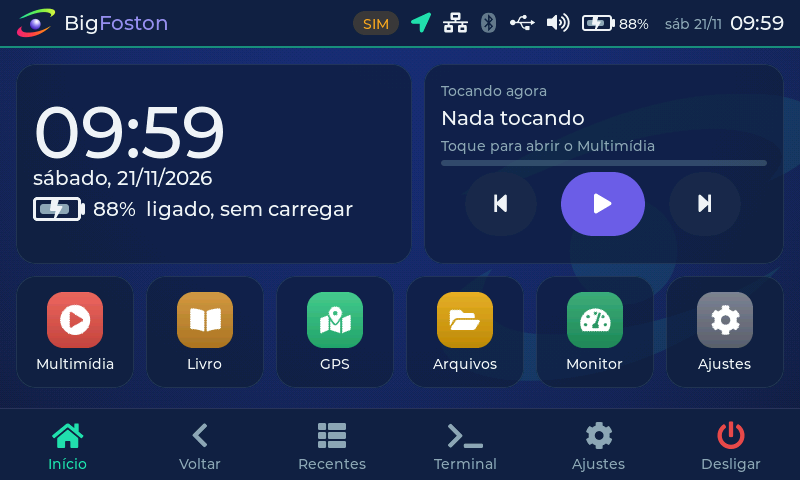
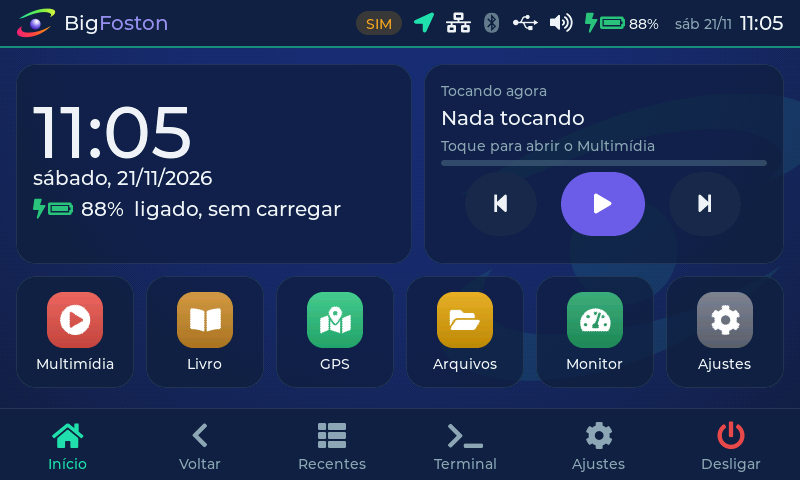
Bateria: ícone no estilo antigo, todo verde no carregador, laranja na bateria, vermelho abaixo de 10%
O ícone desenhado ficou grosso e o verde dependia do fim do algoritmo de
carga (nunca na USB do PC). Agora é o símbolo da fonte (nível em 5 passos)
com o ícone inteiro colorido: verde com raio com carregador ou cabo ligado,
laranja na bateria, vermelho abaixo de 10%. O texto do Painel continua
dizendo carregando / carga completa / ligado, sem carregar.

Changed region(s): [[0.0312, 0.2188, 0.2812, 0.3438], [0.0312, 0.4062, 0.4375, 0.4688], [0.4375, 0.0312, 1.0, 0.0625]]

diff --git a/src/ui/widgets/battery.c b/src/ui/widgets/battery.c
@@ -2,66 +2,36 @@
 #include "battery.h"
 #include "../core/theme.h"
 #include "../core/i18n.h"
+#include <string.h>
 
 /* filhos do contêiner, na ordem de criação */
-enum { CH_BODY, CH_CAP, CH_BOLT };
+enum { CH_BOLT, CH_GLYPH };
 
-typedef struct {
-    int pct;
-    bf_bat_state_t st;
-    bool dark;              /* modo em que foi pintado (o Automático troca sem reconstruir) */
-} bat_state_t;
-
-static void bat_delete(lv_event_t *e)
+static void set_text_if(lv_obj_t *l, const char *t)
 {
-    lv_free(lv_event_get_user_data(e));
+    const char *old = lv_label_get_text(l);
+    if(!old || strcmp(old, t)) lv_label_set_text(l, t);
 }
 
-lv_obj_t *battery_create(lv_obj_t *parent, int w, int h, const lv_font_t *font)
+lv_obj_t *battery_create(lv_obj_t *parent, const lv_font_t *font)
 {
-    int cap_w = w / 10 < 2 ? 2 : w / 10;
-    int border = h >= 24 ? 3 : 2;
     lv_obj_t *c = lv_obj_create(parent);
     lv_obj_remove_style_all(c);
-    lv_obj_set_size(c, w + cap_w, h);
+    lv_obj_set_size(c, LV_SIZE_CONTENT, LV_SIZE_CONTENT);
+    lv_obj_set_flex_flow(c, LV_FLEX_FLOW_ROW);
+    lv_obj_set_flex_align(c, LV_FLEX_ALIGN_START, LV_FLEX_ALIGN_CENTER, LV_FLEX_ALIGN_CENTER);
+    lv_obj_set_style_pad_column(c, 2, 0);
     lv_obj_remove_flag(c, LV_OBJ_FLAG_CLICKABLE | LV_OBJ_FLAG_SCROLLABLE);
-
-    lv_obj_t *body = lv_obj_create(c);
-    lv_obj_remove_style_all(body);
-    lv_obj_set_size(body, w, h);
-    lv_obj_set_style_border_width(body, border, 0);
-    lv_obj_set_style_radius(body, h / 5, 0);
-    lv_obj_set_style_pad_all(body, border + 1, 0);
-    lv_obj_remove_flag(body, LV_OBJ_FLAG_CLICKABLE | LV_OBJ_FLAG_SCROLLABLE);
-
-    lv_obj_t *fill = lv_obj_create(body);           /* nível: filho do corpo */
-    lv_obj_remove_style_all(fill);
-    lv_obj_set_height(fill, LV_PCT(100));
-    lv_obj_set_style_bg_opa(fill, LV_OPA_COVER, 0);
-    lv_obj_set_style_radius(fill, h / 8, 0);
-    lv_obj_remove_flag(fill, LV_OBJ_FLAG_CLICKABLE | LV_OBJ_FLAG_SCROLLABLE);
-
-    lv_obj_t *cap = lv_obj_create(c);
-    lv_obj_remove_style_all(cap);
-    lv_obj_set_size(cap, cap_w, h / 2 < 4 ? 4 : h / 2);
-    lv_obj_align(cap, LV_ALIGN_RIGHT_MID, 0, 0);
-    lv_obj_set_style_bg_opa(cap, LV_OPA_COVER, 0);
-    lv_obj_set_style_radius(cap, cap_w / 2, 0);
 
     lv_obj_t *bolt = lv_label_create(c);
     lv_label_set_text(bolt, LV_SYMBOL_CHARGE);
     lv_obj_set_style_text_font(bolt, font, 0);
-    lv_obj_align(bolt, LV_ALIGN_LEFT_MID, (w - lv_font_get_glyph_width(font, 0xF0E7, 0)) / 2, 0);
     lv_obj_add_flag(bolt, LV_OBJ_FLAG_HIDDEN);
 
-    bat_state_t *bs = lv_malloc(sizeof(*bs));
-    if(bs) {
-        bs->pct = -2;               /* força a primeira pintura */
-        bs->st = BF_BAT_UNKNOWN;
-        bs->dark = false;
-        lv_obj_set_user_data(c, bs);
-        lv_obj_add_event_cb(c, bat_delete, LV_EVENT_DELETE, bs);
-    }
+    lv_obj_t *glyph = lv_label_create(c);
+    lv_label_set_text(glyph, LV_SYMBOL_BATTERY_EMPTY);
+    lv_obj_set_style_text_font(glyph, font, 0);
+
     battery_set(c, -1, BF_BAT_UNKNOWN);
     return c;
 }
@@ -70,61 +40,29 @@ void battery_set(lv_obj_t *c, int pct, bf_bat_state_t st)
 {
     if(!c) return;
     const bf_palette_t *p = pal();
-    bat_state_t *bs = lv_obj_get_user_data(c);
-    bool dark = theme_dark_now();
-    if(pct > 100) pct = 100;
-    if(pct < -1) pct = -1;
-    /* nada mudou: não invalida a tela (a barra superior atualiza a cada segundo) */
-    if(bs && bs->pct == pct && bs->st == st && bs->dark == dark)
-        return;
-    if(bs) { bs->pct = pct; bs->st = st; bs->dark = dark; }
-
-    lv_obj_t *body = lv_obj_get_child(c, CH_BODY);
-    lv_obj_t *cap = lv_obj_get_child(c, CH_CAP);
     lv_obj_t *bolt = lv_obj_get_child(c, CH_BOLT);
-    lv_obj_t *fill = lv_obj_get_child(body, 0);
+    lv_obj_t *glyph = lv_obj_get_child(c, CH_GLYPH);
+    if(pct > 100) pct = 100;
+    bool plugged = st == BF_BAT_CHARGING || st == BF_BAT_FULL || st == BF_BAT_NOT_CHARGING;
+    if(st == BF_BAT_FULL) pct = 100;
 
-    lv_color_t outline = p->text, level = p->text, bolt_c = p->text;
-    bool show_bolt = false;
-    switch(st) {
-    case BF_BAT_CHARGING:
-        level = p->warning;
-        show_bolt = true;
-        break;
-    case BF_BAT_FULL:
-        outline = level = p->success;
-        pct = 100;                      /* o algoritmo terminou a carga */
-        show_bolt = true;
-        break;
-    case BF_BAT_NOT_CHARGING:            /* carregador ligado, carga parada: nível cinza */
-        level = p->text_dim;
-        show_bolt = true;
-        break;
-    default:
-        if(pct >= 0 && pct <= 15) outline = level = p->danger;
-        break;
+    const char *sym = LV_SYMBOL_BATTERY_EMPTY;
+    if(pct >= 0)
+        sym = pct > 80 ? LV_SYMBOL_BATTERY_FULL : pct > 55 ? LV_SYMBOL_BATTERY_3 :
+              pct > 30 ? LV_SYMBOL_BATTERY_2 : pct > 10 ? LV_SYMBOL_BATTERY_1 : LV_SYMBOL_BATTERY_EMPTY;
+    set_text_if(glyph, sym);
+
+    lv_color_t col;
+    if(plugged) col = p->success;
+    else if(pct < 0) col = p->text_dim;
+    else if(pct < 10) col = p->danger;
+    else col = lv_color_hex(theme_dark_now() ? 0xff8c1a : 0xc8600e);   /* laranja */
+    /* a barra superior chama a cada segundo: só mexe no estilo se a cor mudou */
+    if(!lv_color_eq(lv_obj_get_style_text_color(glyph, 0), col)) {
+        lv_obj_set_style_text_color(glyph, col, 0);
+        lv_obj_set_style_text_color(bolt, col, 0);
     }
-    if(pct < 0) {
-        outline = p->text_dim;
-        show_bolt = show_bolt && st != BF_BAT_UNKNOWN;
-    }
-
-    lv_obj_set_style_border_color(body, outline, 0);
-    lv_obj_set_style_bg_color(cap, outline, 0);
-    lv_obj_set_style_bg_color(fill, level, 0);
-    /* nível: pelo menos um traço visível acima de 0% */
-    lv_obj_update_layout(body);
-    int inner = lv_obj_get_content_width(body);
-    int fw = pct <= 0 ? 0 : inner * pct / 100;
-    if(pct > 0 && fw < 2) fw = 2;
-    lv_obj_set_width(fill, fw);
-    if(fw) lv_obj_remove_flag(fill, LV_OBJ_FLAG_HIDDEN);
-    else lv_obj_add_flag(fill, LV_OBJ_FLAG_HIDDEN);
-
-    /* o raio fica por cima do nível, na cor do texto (claro no modo escuro,
-     * escuro no claro): contrasta com o âmbar/verde e com o fundo */
-    lv_obj_set_style_text_color(bolt, bolt_c, 0);
-    if(show_bolt) lv_obj_remove_flag(bolt, LV_OBJ_FLAG_HIDDEN);
+    if(plugged) lv_obj_remove_flag(bolt, LV_OBJ_FLAG_HIDDEN);
     else lv_obj_add_flag(bolt, LV_OBJ_FLAG_HIDDEN);
 }
 

diff --git a/src/ui/widgets/battery.h b/src/ui/widgets/battery.h
@@ -1,20 +1,20 @@
-/* battery.h — ícone de bateria desenhado (contorno, nível, raio).
+/* battery.h — ícone de bateria (símbolo da fonte, com o nível em 5 passos).
  *
- *   descarregando        contorno e nível na cor do texto; vermelho <= 15%
- *   carregando           nível âmbar e um raio por cima
- *   carga completa       bateria verde, com o raio (carregador ligado)
- *   ligado sem carregar  nível cinza com o raio (fonte fraca, ex. USB do PC)
- *   desconhecido         só o contorno, apagado (nunca inventa nível)
+ * O ícone inteiro muda de cor:
+ *   verde     carregador ou cabo USB ligado (carregando, carga completa ou
+ *             ligado sem carregar), com um raio ao lado
+ *   laranja   usando a bateria
+ *   vermelho  usando a bateria, abaixo de 10%
+ *   apagado   desconhecido (nunca inventa nível)
  *
- * As cores vêm da paleta (verde, âmbar e vermelho são os mesmos em todos os
- * temas), então o verde de "carga completa" não se confunde com o destaque. */
+ * Verde, laranja e vermelho são os mesmos em todos os temas de cores (o
+ * laranja escurece no modo claro, para contrastar com o fundo). */
 #ifndef BF_BATTERY_H
 #define BF_BATTERY_H
 #include "lvgl.h"
 #include "../core/status.h"
 
-/* w x h é o corpo; o polo fica à direita (w/10 de largura). font: o do raio. */
-lv_obj_t *battery_create(lv_obj_t *parent, int w, int h, const lv_font_t *font);
+lv_obj_t *battery_create(lv_obj_t *parent, const lv_font_t *font);
 /* pct -1 = desconhecido */
 void battery_set(lv_obj_t *bat, int pct, bf_bat_state_t st);
 /* Rótulo curto do estado ("carregando", "carga completa"...); "" se descarregando. */

diff --git a/src/ui/core/screenshot.c b/src/ui/core/screenshot.c
@@ -137,7 +137,7 @@ int screenshot_run(const char *dir)
     sim_set_battery(64, 'c'); status_refresh(); pump(1100); shot("01d-bateria-carregando");
     sim_set_battery(100, 'f'); status_refresh(); pump(1100); shot("01e-bateria-carga-completa");
     sim_set_battery(88, 'n'); status_refresh(); pump(1100); shot("01f-bateria-ligado-sem-carregar");
-    sim_set_battery(12, 'd'); status_refresh(); pump(1100); shot("01g-bateria-fraca");
+    sim_set_battery(8, 'd'); status_refresh(); pump(1100); shot("01g-bateria-fraca");
     sim_set_battery(64, 'c'); status_refresh();
     go(SCR_POWER, 0);               shot("27b-potencia-carregando");
     sim_set_battery(-2, 0); status_refresh();      /* volta ao padrão (ou BIGFOSTON_SIM_BATTERY) */

diff --git a/src/ui/screens/scr_power.c b/src/ui/screens/scr_power.c
@@ -28,7 +28,7 @@ static void create(lv_obj_t *parent, int arg)
     lv_obj_set_flex_align(c, LV_FLEX_ALIGN_START, LV_FLEX_ALIGN_CENTER, LV_FLEX_ALIGN_CENTER);
     lv_obj_set_style_pad_column(c, BF_SP_XL, 0);
     bool known = s->battery_pct >= 0;
-    lv_obj_t *bat = battery_create(c, 84, 42, BF_FONT_L);
+    lv_obj_t *bat = battery_create(c, BF_FONT_L);
     battery_set(bat, s->battery_pct, s->battery_state);
     lv_obj_t *col = bf_plain(c);
     lv_obj_set_size(col, LV_SIZE_CONTENT, LV_SIZE_CONTENT);

diff --git a/src/ui/widgets/topbar.c b/src/ui/widgets/topbar.c
@@ -90,7 +90,7 @@ lv_obj_t *topbar_create(lv_obj_t *parent)
     lv_obj_set_flex_flow(batbox, LV_FLEX_FLOW_ROW);
     lv_obj_set_flex_align(batbox, LV_FLEX_ALIGN_START, LV_FLEX_ALIGN_CENTER, LV_FLEX_ALIGN_CENTER);
     lv_obj_set_style_pad_column(batbox, 4, 0);
-    ic_bat = battery_create(batbox, 30, 16, BF_FONT_S);
+    ic_bat = battery_create(batbox, BF_FONT_M);
     bat_pct = bf_label(batbox, "—", BF_FONT_S, p->text);
 
     lv_obj_t *clockbox = bf_plain(icons);

diff --git a/src/ui/screens/scr_home.c b/src/ui/screens/scr_home.c
@@ -340,7 +340,7 @@ static void create_panel(lv_obj_t *parent)
     lv_obj_set_flex_flow(brow, LV_FLEX_FLOW_ROW);
     lv_obj_set_flex_align(brow, LV_FLEX_ALIGN_START, LV_FLEX_ALIGN_CENTER, LV_FLEX_ALIGN_CENTER);
     lv_obj_set_style_pad_column(brow, BF_SP_S, 0);
-    bat_icon = battery_create(brow, 48, 24, BF_FONT_M);
+    bat_icon = battery_create(brow, BF_FONT_M);
     bat_lbl = bf_label(brow, "", BF_FONT_M, p->text);
 
     /* tocando agora */

diff --git a/docs/09-interface-ux-ui.md b/docs/09-interface-ux-ui.md
@@ -103,28 +103,28 @@ Cada ícone vem do provedor de status (`src/ui/core/status.h`):
 
 ### Ícone da bateria
 
-Desenhado (`src/ui/widgets/battery.c`): contorno, nível proporcional e um raio. O mesmo
-widget aparece na barra superior, no Início em modo Painel e em Ajustes > Potência. O
-estado vem de `/sys/class/power_supply/battery/status`.
+O símbolo de bateria da fonte (nível em 5 passos), com **o ícone inteiro colorido**
+(`src/ui/widgets/battery.c`), na barra superior, no Início em modo Painel e em
+Ajustes > Potência. O estado vem de `/sys/class/power_supply/battery/status`.
 
-| Estado | Aparência | Quando |
-|---|---|---|
-| descarregando | nível na cor do texto; **vermelho** em 15 % ou menos | sem carregador |
-| carregando | nível **âmbar** + raio | `Charging` |
-| carga completa | bateria **verde** + raio | `Full`: o algoritmo de carga terminou (corrente baixa em tensão constante, 2 h em CV ou 8 h no total) |
-| ligado, sem carregar | nível cinza + raio | `Not charging`: fonte fraca (USB do PC) ou falha |
-| desconhecido | só o contorno, apagado, e "—" | sem medidor |
+| Cor | Quando |
+|---|---|
+| **verde**, com um raio ao lado | carregador ou cabo USB ligado: carregando, carga completa ou ligado sem carregar |
+| **laranja** | usando a bateria |
+| **vermelho** | usando a bateria, abaixo de 10 % |
+| apagado, com "—" | sem medidor (nunca uma porcentagem inventada) |
 
-O verde, o âmbar e o vermelho são os mesmos em todos os temas de cores, então o verde
-de "carga completa" não se confunde com o destaque do tema. Durante a carga a
-porcentagem desconta os ~200 mV que o carregador soma à leitura (medido em 21/11/2026).
+O texto do Painel diz o estado: "carregando", "carga completa" (o algoritmo de carga
+terminou: corrente baixa em tensão constante, 2 h em CV ou 8 h no total) ou "ligado,
+sem carregar" (fonte fraca, como a USB do PC, ou falha). Durante a carga a porcentagem
+desconta os ~200 mV que o carregador soma à leitura (medido em 21/11/2026).
 
 | | |
 |---|---|
-| ![](images/ui/01d-bateria-carregando.png) | **Carregando** — âmbar com raio, "64% carregando". |
-| ![](images/ui/01e-bateria-carga-completa.png) | **Carga completa** — verde com raio. |
-| ![](images/ui/01f-bateria-ligado-sem-carregar.png) | **Ligado, sem carregar** — nível cinza com raio. |
-| ![](images/ui/01g-bateria-fraca.png) | **Bateria fraca** — vermelho em 15 % ou menos, sem carregador. |
+| ![](images/ui/01d-bateria-carregando.png) | **Carregando** — verde com raio, "64% carregando". |
+| ![](images/ui/01e-bateria-carga-completa.png) | **Carga completa**. |
+| ![](images/ui/01f-bateria-ligado-sem-carregar.png) | **Ligado, sem carregar** (USB do PC). |
+| ![](images/ui/01g-bateria-fraca.png) | **Bateria fraca** — vermelho abaixo de 10 %. |
 | ![](images/ui/27b-potencia-carregando.png) | **Potência** — o mesmo ícone, maior. |
 
 No simulador, `BIGFOSTON_SIM_BATTERY="64,c"` fixa o estado (`d` descarregando, `c`
